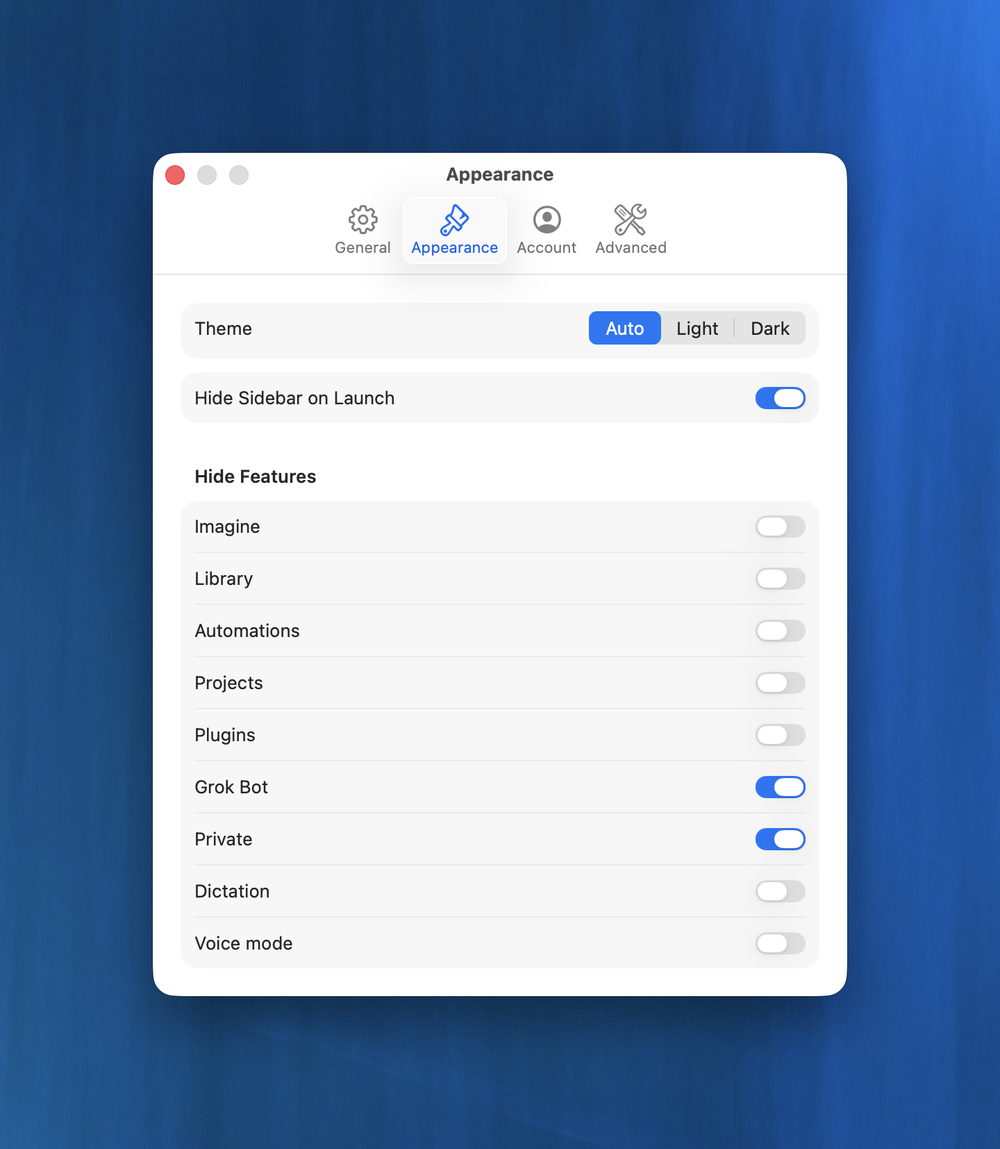
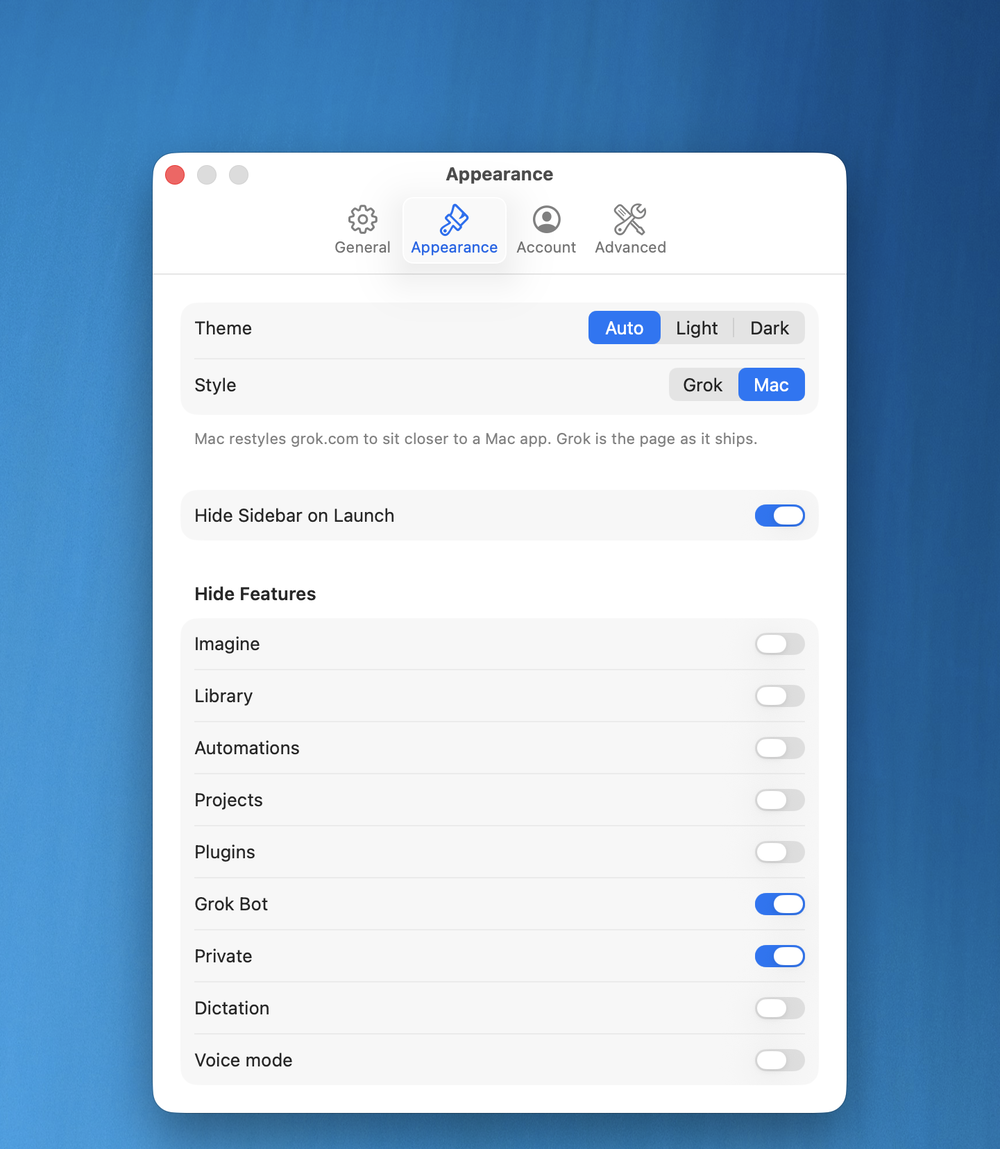
docs: show the Mac style in the README, with new captures
The hero, the Quick Chat clip, and the Appearance shot are retaken in
the Mac style, now the default. The README gains a paragraph on the
style and how to switch back to Grok, and ARCHITECTURE notes the window
widening for the sidebar.

diff --git a/docs/ARCHITECTURE.md b/docs/ARCHITECTURE.md
@@ -36,7 +36,7 @@ Web bridge            Grock/Web                  WKWebView owner, injected scrip
 Utilities / settings  Grock/Utilities            AppInfo, preferences, download paths, CLI installer
 ```
 
-`WebViewStore` owns the WebView, navigation, composer handoff, and recovery state, plus the page script that notices a reply finishing. `WebNavigation.swift` has `NavigationPolicy`, the navigation delegates, and the guarded download bridge. `GrokChromeScript.swift` adapts grok.com's page chrome (the controls the titlebar replaces, sidebar, hidden features, promo cards). `GrokThemeScript.swift` holds the optional Mac style: overrides for grok.com's CSS custom properties, plus the script that keeps them in the page (DEC-073). `QuickChatPayload.swift` is the package Quick Chat hands the page, size limits included. `ReplyMonitor.swift` tracks the unread answer behind the Dock badge. `WebRecovery.swift` draws the native Retry, Open in Browser, and download footer. On the app side, `UpdaterController.swift` wraps Sparkle and `AuthPopupPresenter.swift` hosts sign-in popups.
+`WebViewStore` owns the WebView, navigation, composer handoff, and recovery state, plus the page script that notices a reply finishing. `WebNavigation.swift` has `NavigationPolicy`, the navigation delegates, and the guarded download bridge. `GrokChromeScript.swift` adapts grok.com's page chrome (the controls the titlebar replaces, sidebar, hidden features, promo cards). `GrokThemeScript.swift` holds the Mac style, the default look: overrides for grok.com's CSS custom properties, plus the script that keeps them in the page (DEC-073). `QuickChatPayload.swift` is the package Quick Chat hands the page, size limits included. `ReplyMonitor.swift` tracks the unread answer behind the Dock badge. `WebRecovery.swift` draws the native Retry, Open in Browser, and download footer. On the app side, `UpdaterController.swift` wraps Sparkle and `AuthPopupPresenter.swift` hosts sign-in popups.
 
 Injected scripts follow two rules. First, they stay idle when grok.com is idle. The chrome script folds a burst of DOM changes into one animation frame plus one throttled 200 ms pass, and that second pass keeps things current when an occluded window stops getting frames. Second, they never observe attributes we wrote ourselves.
 
@@ -57,6 +57,8 @@ Injected scripts follow two rules. First, they stay idle when grok.com is idle. 
 The overlay is a titled window with a unified toolbar drawn over the WebView (`fullSizeContentView`). grok.com keeps a 56px band for its own chrome at the top of every view and fades a thread out beneath it, so the 52pt toolbar sits in that band and nothing has to be pushed down. That fade is a straight ramp, which leaves text readable behind the toolbar's controls, so the chrome script masks the thread's wrapper too: nothing shows in the first 30px and the thread is whole by 80px. The chrome script hides the controls the toolbar replaces (grok.com's sidebar toggle and Search, the chat title, Conversation Actions, the right pane toggle) and leaves the layout alone (DEC-071). It matches ids, roles, labels, and `data-` attributes, never class names: grok.com's classes are hashed and change with every build.
 
 Toolbar, left to right: Sidebar toggle, the place or conversation title (a menu of destinations when the sidebar is hidden, a plain label when it's open), then More and Share on a conversation (DEC-055), then New Chat, Private, and Search. While the sidebar is hidden, clicking the title copies the chat URL and Option-click opens it in the browser.
+
+A window at its default width widens by the sidebar's 254pt when the sidebar opens and narrows when it closes, so the chat column keeps its width. A snapshot of the chat covers the web view for the moment the page needs to redraw (DEC-074).
 
 Close means hide. Interactive launch shows the window; login-item launch stays quiet (DEC-018). A cold grok.com load is covered by a small native orbit animation until the page has a composer (DEC-042). The app menu is a normal Mac app menu, not a mini-browser (DEC-033). The status item is a system menu: Show Grock, New Chat, Settings, Quit. An unread answer badges the Dock (DEC-054).
 

diff --git a/README.md b/README.md
@@ -11,7 +11,7 @@
 ![macOS 26+](https://img.shields.io/badge/macOS-26%2B-black)
 [![MIT](https://img.shields.io/badge/license-MIT-blue)](LICENSE)
 
-<img src="docs/assets/window.png" width="900" alt="The Grock window: grok.com's sidebar with projects and chats, a native titlebar, and a conversation summarizing an attached PDF">
+<img src="docs/assets/window.png" width="900" alt="The Grock window in the Mac style: a Finder-style sidebar with projects and chats, a native titlebar, and a conversation summarizing an attached PDF">
 
 </div>
 
@@ -51,11 +51,13 @@ You need macOS 26 or later on Apple silicon, plus a grok.com account (free or Su
 
 **Downloads that work.** Generated images and files land in `~/Downloads`. A footer tells you when a download finished or failed, with a Show in Finder button.
 
+**Styled like a Mac app.** Grock restyles grok.com to sit closer to Finder: neutral colors, the system font, your accent color, and a sidebar that looks like a Mac sidebar. Opening the sidebar widens the window, so the chat keeps its room. If you'd rather have grok.com exactly as it ships, switch Style to Grok in Appearance settings.
+
 **Hide what you don't use.** Appearance settings have a switch for each part of grok.com, like Projects, Plugins, or voice mode. The theme follows your Mac unless you pin it to light or dark.
 
 <p align="center">
 <img src="docs/assets/settings-general.png" width="440" alt="General settings: hotkeys for Quick Chat, New Chat, Show Grock and Voice Chat, clipboard capture, Hide from Dock, and Launch at Login">
-<img src="docs/assets/settings-appearance.png" width="440" alt="Appearance settings: theme, Hide Sidebar on Launch, and switches that hide Imagine, Library, Automations, Projects, Plugins, Grok Bot, Private, Dictation, and Voice mode">
+<img src="docs/assets/settings-appearance.png" width="440" alt="Appearance settings: theme, the Mac or Grok style, Hide Sidebar on Launch, and switches that hide Imagine, Library, Automations, Projects, Plugins, Grok Bot, Private, Dictation, and Voice mode">
 </p>
 
 ## Automate it
